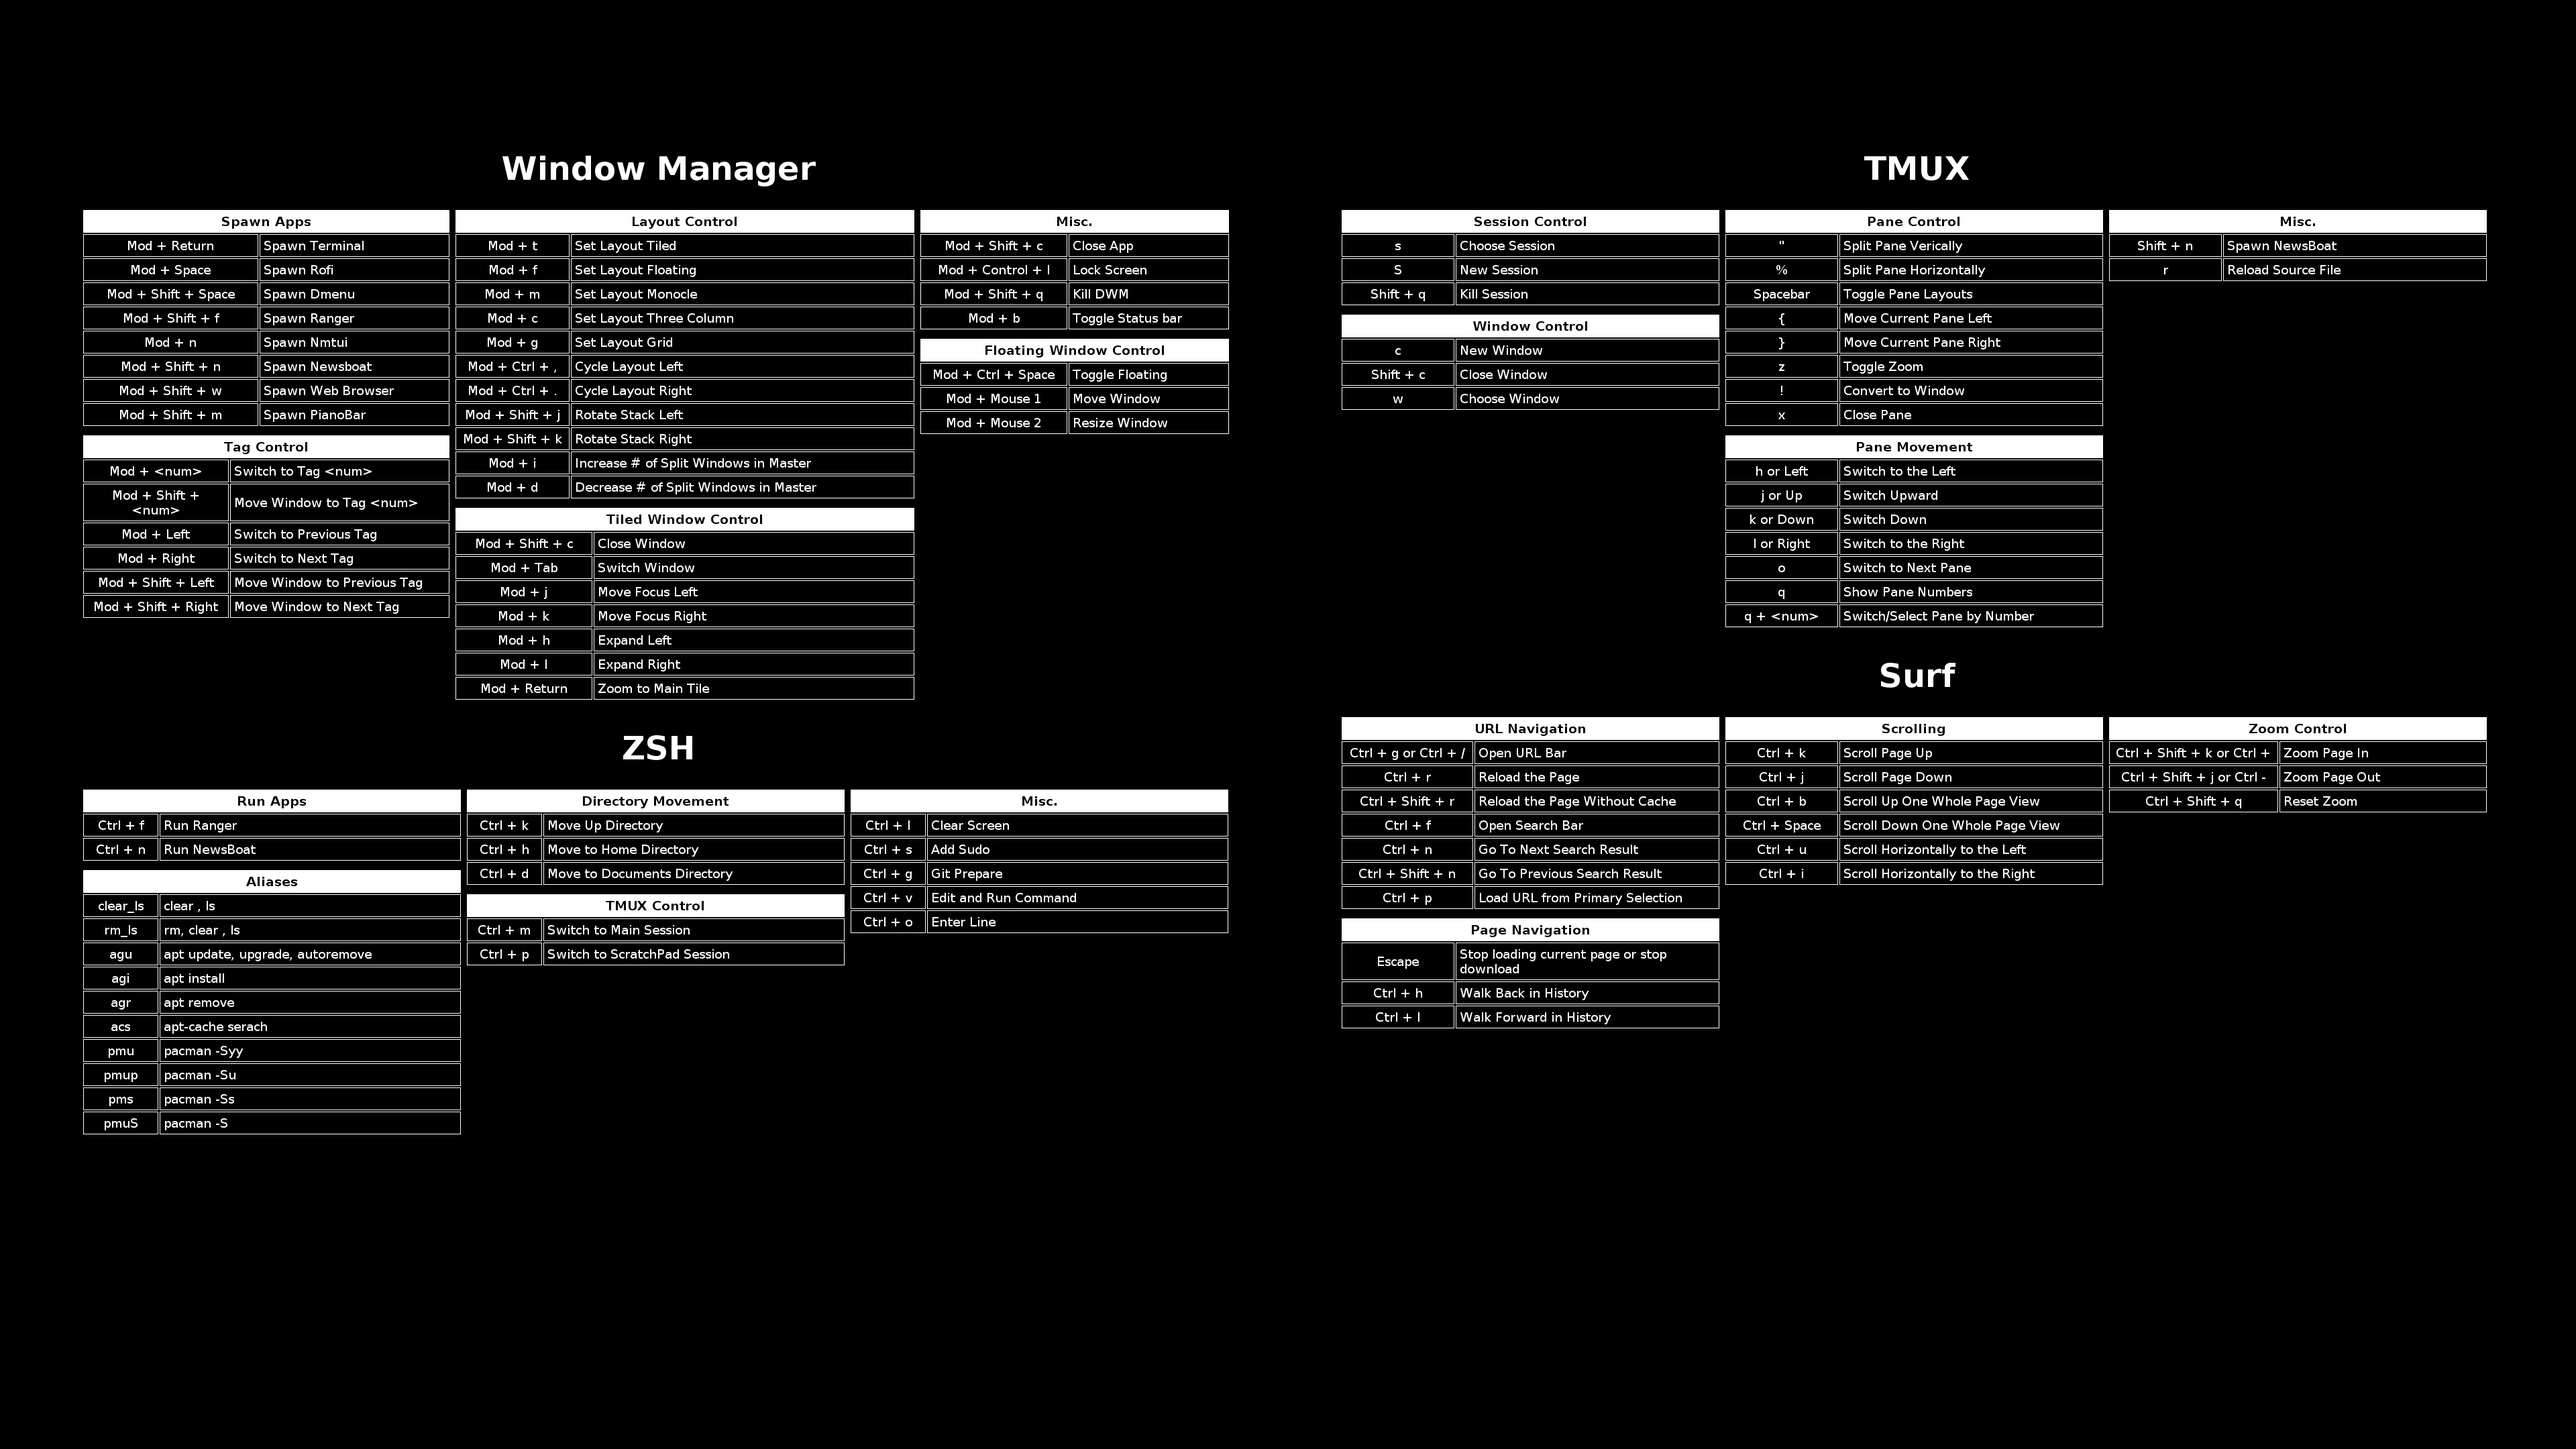
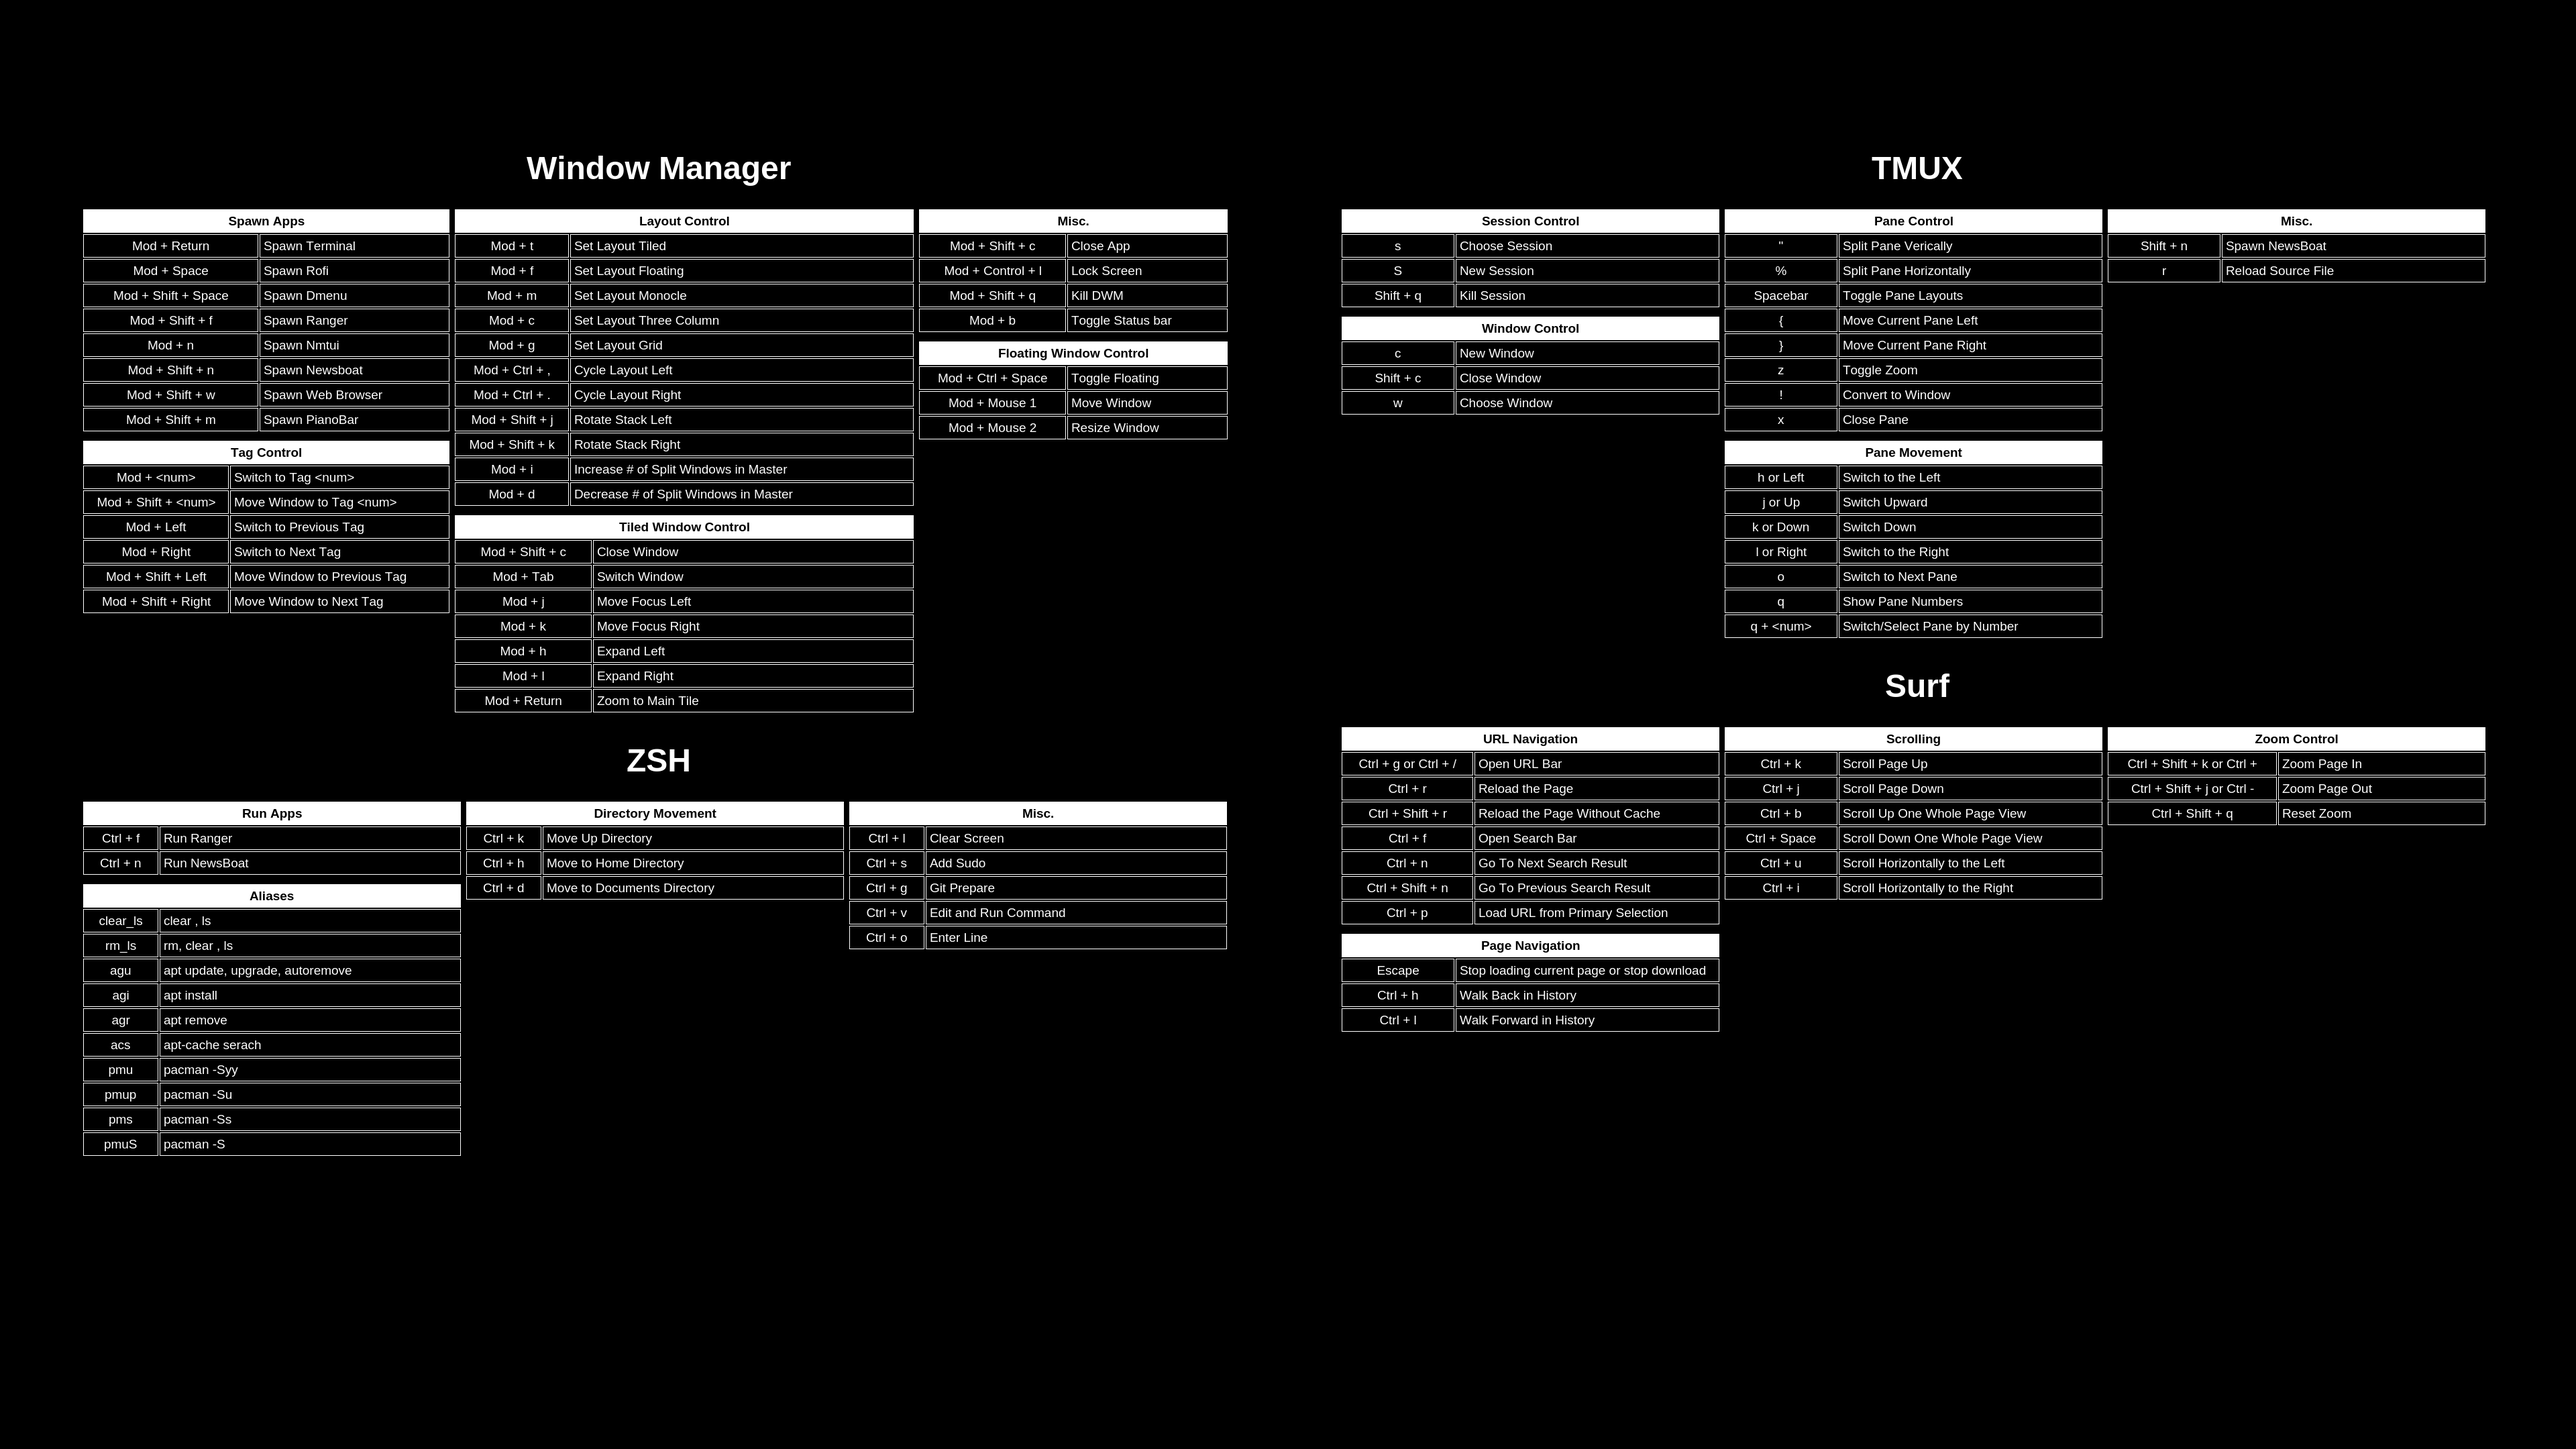
Updating Wallpaer Again!!!

diff --git a/Keybind_Wallpaper.html b/Keybind_Wallpaper.html
@@ -241,12 +241,6 @@
               ["Ctrl + d", "Move to Documents Directory"],
             ];
             gen_table("Directory Movement", rows, "20%");
-            
-            rows = [
-              ["Ctrl + m", "Switch to Main Session"],
-              ["Ctrl + p", "Switch to ScratchPad Session"],
-            ];
-            gen_table("TMUX Control", rows, "20%");
           </script>
         </div>
         <div class="z_right">
